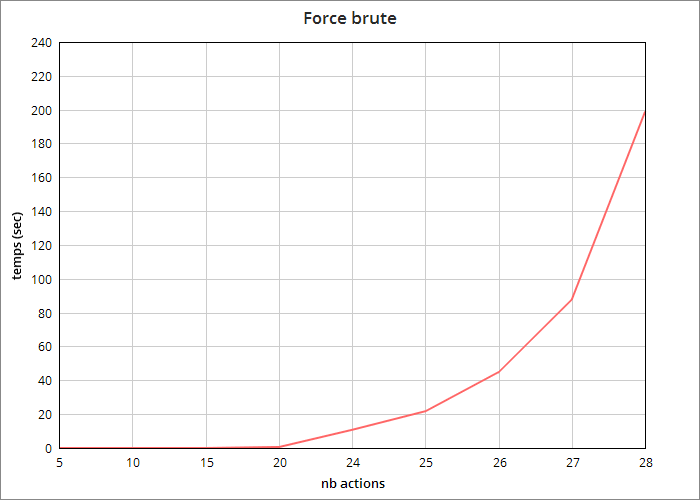
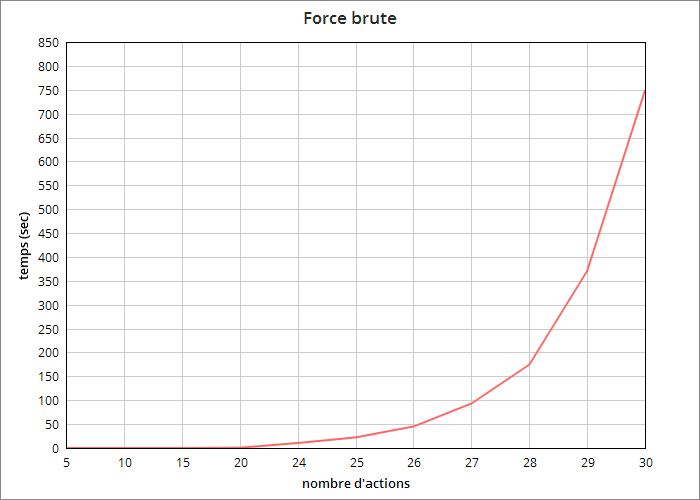
Oral preparation

diff --git a/optimized.py b/optimized.py
@@ -5,51 +5,61 @@ from time import sleep
 from stockmanager import (Stock, StocksCombination)
 from glutton import Glutton
 from views.view import View
+from views.form import (Form, FieldForm)
 from selectfile import SelectionFile
 
 
 MAX_AMOUNT = 500
-# NB_LOOPS = 10000
-NB_THREADS = 8
-TIME_IN_SECONDS = 3
-
-# --−−−−−−−−−−−−−−−−−−−−−−−−−−−−−−−−−−−−−−−−−−−−−−−−−−−−−−−−−−−−−−−−−−−−−−−−−−−−−−−−−−−−−−−−−−−−−−−−−−−−−−−−−−−−−−
-# -- File selection −−−−−−−−−−−−−−−−−−−−−−−−−−−−−−−−−−−−−−−−−−−−−−−−−−−−−−−−−−−−−−−−−−−−−−−−−−−
-select = SelectionFile(sf_header="Optimisation de l'algorithme", sf_bodies=['Selectionnez un fichier'])
-# list_of_actions = select.select_file()
-# list_of_actions = select.select_file('essai.csv')
-# list_of_actions = select.select_file('essai_24_actions.csv')
-# list_of_actions = select.select_file('essai_25_actions.csv')
-# list_of_actions = select.select_file('dataset1_Python+P7.csv')
-list_of_actions = select.select_file('dataset2_Python+P7.csv')
-
-
-# glouton = Glutton(g_max=MAX_AMOUNT, g_list=list_of_actions)
-# best_combination = glouton.random_by_tries(NB_LOOPS)
-
-# print(best_combination)
-
-
-# −−−−−−−−−−−−−−−−−−−--−−−−−−−−−−−−−−−−−−−−−−−−−−−−−−−−−−−−−−−−−−−−−−−−−−−−−−−−−−−−−−−−−−−−−−−−−−−−−−−−−−−−−−−−−−−
-# -- view −−−−−−−−−−−−−−−−−−−−−−−−−−−−−−−−−−−−−−−−−−−−−−−−−−−−−−−−−−−−−−−−−−−−−−−−−−−−−−−−−−−−−−−−−−−−−−−−−−−−−−−−
-bodies = list()
-bodies.append(f'Fichier : {select.sf_current_choice}\n' \
-              f'{len(list_of_actions)} actions\n' \
-              f'{NB_THREADS} threads pendant {TIME_IN_SECONDS} secondes')
-
 
 # --−−−−−−−−−−−−−−−−−−−−−−−−−−−−−−−−−−−−−−−−−−−−−−−−−−−−−−−−−−−−−−−−−−−−−−−−−−−−−−−−−−−−−−−−−−−−−−−−−−−−−−−−−−−−−−
 # -- Glutton random Thread per time −−−−−−−−−−−−−−−−−−−−−−−−−−−−−−−−−−−−−−−−−−−−−−−−−−−−−−−−−−−−−−−−−−−−−−−−−−−−−−
-def glutton_thread_time(list_actions, time_in_seconds, combinations, counters):
+def glutton_thread_time(list_actions: list[Stock], time_in_seconds: int, combinations, counters):
+    """ Glutton algorithm by time for threads. See class Glutton for more details.
+        This function allows to use glutton with threads.
+        Give two manager.list to 'combinations'and 'counters'
+        These lists will be shared and filled by all threads.
+        Once all threads finished, just sort or sum manager.lists """
+
     glutton = Glutton(g_max=MAX_AMOUNT, g_list=list_actions)
     r = glutton.random_by_time(time_in_seconds=time_in_seconds)
 
     combinations.append(r[0])
     counters.append(r[1])
 
-t0 = time()
+
+# --−−−−−−−−−−−−−−−−−−−−−−−−−−−−−−−−−−−−−−−−−−−−−−−−−−−−−−−−−−−−−−−−−−−−−−−−−−−−−−−−−−−−−−−−−−−−−−−−−−−−−−−−−−−−−−
+# -- File selection −−−−−−−−−−−−−−−−−−−−−−−−−−−−−−−−−−−−−−−−−−−−−−−−−−−−−−−−−−−−−−−−−−−−−−−−−−−−−−−−−−−−−−−−−−−−−−
+select = SelectionFile(sf_header="Glutton random", sf_bodies=['Selectionnez un fichier'])
+list_of_actions = select.select_file()
+# list_of_actions = select.select_file('essai.csv')
+# list_of_actions = select.select_file('essai_28_actions.csv')
+# list_of_actions = select.select_file('dataset1_Python+P7.csv')
+# list_of_actions = select.select_file('dataset2_Python+P7.csv')
+
+# --−−−−−−−−−−−−−−−−−−−−−−−−−−−−−−−−−−−−−−−−−−−−−−−−−−−−−−−−−−−−−−−−−−−−−−−−−−−−−−−−−−−−−−−−−−−−−−−−−−−−−−−−−−−−−−
+# -- Form threads and time −−−−−−−−−−−−−−−−−−−−−−−−−−−−−−−−−−−−−−−−−−−−−−−−−−−−−−−−−−−−−−−−−-−−−−−−−−−−−−−−−−−−−−−
+settings=[FieldForm(f_name="Temps de traitement en secondes",     f_type=int),
+          FieldForm(f_name="Nombre de threads",                   f_type=int)]
+
+form_settings = Form(header="Options glouton",
+               fields=settings) 
+
+form_settings.show()
+
+time_in_seconds = settings[0].f_value
+nb_threads = settings[1].f_value
+
+
+# --−−−−−−−−−−−−−−−−−−−−−−−−−−−−−−−−−−−−−−−−−−−−−−−−−−−−−−−−−−−−−−−−−−−−−−−−−−−−−−−−−−−−−−−−−−−−−−−−−−−−−−−−−−−−−−
+# -- View −−−−−−−−−−−−−−−−−−−−−−−−−−−−−−−−−−−−−−−−−−−−−−−−−−−−−−−−−−−−−−−−−−−−−−−−−−−−−−−−−−-−−−−−−−−−−−−−−−−−−−−−
+bodies = list()
+bodies.append(f'Fichier : {select.sf_current_choice}\n' \
+              f'{len(list_of_actions)} actions\n' \
+              f'{nb_threads} threads pendant {time_in_seconds} secondes')
+
 my_view = View(header='Glutton random', bodies=bodies)
-my_view.start_loading(text=f'En cours : {NB_THREADS} threads / {TIME_IN_SECONDS} s')
+my_view.start_loading(text=f'En cours')
+t0 = time()
 
 # --−−−−−−−−−−−−−−−−−−−−−−−−−−−−−−−−−−−−−−−−−−−−−−−−−−−−−−−−−−−−−−−−−−−−−−−−−−−−−−−−−−−−−−−−−−−−−−−−−−−−−−−−−−−−−−
 # -- Lauching threads −−−−−−−−−−−−−−−−−−−−−−−−−−−−−−−−−−−−−−−−−−−−−−−−−−−−−−−−−−−−−−−−−−−−−−-−−−−−−−−−−−−−−−−−−−−−
@@ -58,15 +68,15 @@ combinations = manager.list()
 counters = manager.list()
 threads = []
 
-for i in range(0, NB_THREADS):
-    p = Process(target=glutton_thread_time, args=(list_of_actions, TIME_IN_SECONDS, combinations, counters))
+for i in range(0, nb_threads):
+    p = Process(target=glutton_thread_time, args=(list_of_actions, time_in_seconds, combinations, counters))
     threads.append(p)
     p.start()
 
 # Progression
-while time() - t0 < TIME_IN_SECONDS:
+while time() - t0 < time_in_seconds:
     sleep(0.5)
-    my_view.update_loading(round(100 * (time() - t0) / TIME_IN_SECONDS))
+    my_view.update_loading(round(100 * (time() - t0) / time_in_seconds))
 
 for t in threads:
     t.join()

diff --git a/forcebrute.py b/forcebrute.py
@@ -2,14 +2,13 @@ from itertools import combinations as itertools_combinations
 from multiprocessing import (Process, Manager)
 from math import factorial
 from time import time
-from time import sleep
 
 from stockmanager import (Stock, StocksCombination)
 from views.view import View
 from selectfile import SelectionFile
 
-MAX_AMOUNT = 500.0
 
+MAX_AMOUNT = 500.0
 
 # --−−−−−−−−−−−−−−−−−−−−−−−−−−−−−−−−−−−−−−−−−−−−−−−−−−−−−−−−−−−−−−−−−−−−−−−−−−−−−−−−−−−−−−−−−−−−−−−−−−−−−−−−−−−−−−
 # -- Mix/Max −−−−−−−−−−−−−−−−−−−−−−−−−−−−−−−−−−−−−−−−−−−−−−−−−−−−−−−−−−−−−−−−−−−−−−−−−−−−−−−−−−−−−−−−−−−−−−−−−−−−−
@@ -28,7 +27,12 @@ def search_last_indice_before_maxi(list_of_actions: list[Stock], maxi: float):
 
 # --−−−−−−−−−−−−−−−−−−−−−−−−−−−−−−−−−−−−−−−−−−−−−−−−−−−−−−−−−−−−−−−−−−−−−−−−−−−−−−−−−−−−−−−−−−−−−−−−−−−−−−−−−−−−−−
 # -- Threads −−−−−−−−−−−−−−−−−−−−−−−−−−−−−−−−−−−−−−−−−−−−−−−−−−−−−−−−−−−−−−−−−−−−−−−−−−−−−−−−−−−−−−−−−−−−−−−−−−−−−
-def search_best(list_of_actions, nb_actions_per_combination, combinations, counters):
+def search_best(list_of_actions: list[Stock], nb_actions_per_combination: int, combinations, counters):
+    """ BruteForce algorithm with itertools_combinations. It finds all combinations for n stocks and saved the 
+        best one.
+        Allows to use it with threads. Give two manager.list to 'combinations'and 'counters'
+        These lists will be shared and filled by all threads.
+        Once all threads finished, just sort or sum manager.lists """
 
     best_combination = StocksCombination()
     counter = 0
@@ -45,24 +49,21 @@ def search_best(list_of_actions, nb_actions_per_combination, combinations, count
 # --−−−−−−−−−−−−−−−−−−−−−−−−−−−−−−−−−−−−−−−−−−−−−−−−−−−−−−−−−−−−−−−−−−−−−−−−−−−−−−−−−−−−−−−−−−−−−−−−−−−−−−−−−−−−−−
 # -- File selection −−−−−−−−−−−−−−−−−−−−−−−−−−−−−−−−−−−−−−−−−−−−−−−−−−−−−−−−−−−−−−−−−−−−−−−−−−−−−−−−−−−−−−−−−−−−−−
 select = SelectionFile(sf_header="Force brute", sf_bodies=['Selectionnez un fichier'])
-# list_of_actions = select.select_file()
-list_of_actions = select.select_file('essai.csv')
-# list_of_actions = select.select_file('essai_graph.csv')
-# list_of_actions = select.select_file('essai_24_actions.csv')
-# list_of_actions = select.select_file('essai_25_actions.csv')
-# list_of_actions = select.select_file('essai_27_actions.csv')
+list_of_actions = select.select_file()
+# list_of_actions = select.select_file('essai.csv')
 # list_of_actions = select.select_file('essai_28_actions.csv')
 # list_of_actions = select.select_file('dataset1_Python+P7.csv')
 # list_of_actions = select.select_file('dataset2_Python+P7.csv')
 
-# list_of_actions = list_of_actions[:15]
+t0 = time()
 
 # −−−−−−−−−−−−−−−−−−−--−−−−−−−−−−−−−−−−−−−−−−−−−−−−−−−−−−−−−−−−−−−−−−−−−−−−−−−−−−−−−−−−−−−−−−−−−−−−−−−−−−−−−−−−−−−
 # -- Min / Max to reduce the list_combinations amount −−−−−−−−−−−−−−−−−−−−−−−−−−−−−−−−−−−−−−−−−−−−−−−−−−−−−−−−−−−−
 max = search_last_indice_before_maxi(sorted(list_of_actions, key=lambda k: k.f_price), maxi=MAX_AMOUNT)
 min = search_last_indice_before_maxi(sorted(list_of_actions, key=lambda k: k.f_price, reverse=True), maxi=MAX_AMOUNT)
 
-# combinaisons number ?
+# −−−−−−−−−−−−−−−−−−−--−−−−−−−−−−−−−−−−−−−−−−−−−−−−−−−−−−−−−−−−−−−−−−−−−−−−−−−−−−−−−−−−−−−−−−−−−−−−−−−−−−−−−−−−−−−
+# -- combinaisons number ? −−−−−−−−−−−−−−−−−−−−−−−−−−−−−−−−−−−−−−−−−−−−−−−−−−−−−−−−−−−−−−−−−−−−−−−−−−−−−−−−−−−−−−−
 total_to_do = 0
 for i in range(min, max +1):
     total_to_do += int(factorial(len(list_of_actions)) / (factorial(i) * (factorial(len(list_of_actions) - i))))
@@ -73,10 +74,9 @@ bodies = list()
 bodies.append(f'Fichier : {select.sf_current_choice}\n' \
               f'{len(list_of_actions)} actions\n' \
               f'Nombre de combinaisons à tester : {total_to_do}')
+
 my_view = View(header='Force brute', bodies=bodies)
 my_view.start_loading(text='Étude en cours ')
-t0 = time()
-
 
 # −−−−−−−−−−−−−−−−−−−--−−−−−−−−−−−−−−−−−−−−−−−−−−−−−−−−−−−−−−−−−−−−−−−−−−−−−−−−−−−−−−−−−−−−−−−−−−−−−−−−−−−−−−−−−−−
 # -- Lauching threads −−−−−−−−−−−−−−−−−−−−−−−−−−−−−−−−−−−−−−−−−−−−−−−−−−−−−−−−−−−−−−−−−−−−−−-−−−−−−−−−−−−−−−−−−−−−
@@ -91,12 +91,12 @@ for i in range(min, max + 1):
     p.start()
 
 for t in threads:
-    my_view.update_loading(sum(counters) / total_to_do * 100)
+    my_view.update_loading(int(StocksCombination.sum(counters) / total_to_do * 100))
     t.join()
 
 my_view.update_loading(100)
 best_combination = StocksCombination.best_stock_in_list(combinations)
-counter = sum(counters)
+counter = StocksCombination.sum(counters)
 
 # −−−−−−−−−−−−−−−−−−−--−−−−−−−−−−−−−−−−−−−−−−−−−−−−−−−−−−−−−−−−−−−−−−−−−−−−−−−−−−−−−−−−−−−−−−−−−−−−−−−−−−−−−−−−−−−
 # -- Displays results −−−−−−−−−−−−−−−−−−−−−−−−−−−−−−−−−−−−−−−−−−−−−−−−−−−−−−−−−−−−−−−−−−−−−−−−−−−−−−−−−−−−−−−−−−−−

diff --git a/stockmanager.py b/stockmanager.py
@@ -1,9 +1,11 @@
 from dataclasses import dataclass
 from typing import(Any)
 
+
 @dataclass
 class Stock:
-    """ Container for one ation """
+    """ Container for one ation.
+        Allows to compare two stocks directly by their price """
 
     f_name: str
     f_price: float
@@ -17,7 +19,9 @@ class Stock:
 
 class StocksCombination:
     """ Container for a combination of several stocks
-        Performs calculations, checks and allows to compare with other combinations """
+        Performs calculations, checks and allows to compare with other combinations.
+        A combination can be create in constructor with a stock's Container
+        or stock by stock with the 'add' method. """
 
     def __init__(self, stocks: Any=None, max_amount: float=500.0):
         self.max_amount =  max_amount
@@ -84,6 +88,8 @@ class StocksCombination:
     def sorted_stocks(self):
         return "\n".join( str(i) for i in sorted(self.stocks))
 
+    # −−−−−−−−−−−−−−−−−−−−−−−−−−−−−−−−−−−−−−−−−−−−−−−−−−−−−−−−−−−−−−−−−−−−−−−−−−−−−−−−−−−−−−−−−−−−−−−−−−−−−−−−−−−−
+    # Static methods to avoid warning due to thread Manager
     @staticmethod
     def best_stock(a, b):
         """ Returns the best stock """
@@ -101,3 +107,13 @@ class StocksCombination:
             best_stock = StocksCombination.best_stock(best_stock, stock)
 
         return best_stock
+
+    @staticmethod
+    def sum(number_list):
+        """ Simple addition, to avoid warning with sum() and threads proxies """
+        total = 0
+        for value in number_list:
+            total += value
+
+        return total
+

diff --git a/glutton.py b/glutton.py
@@ -4,12 +4,20 @@ from time import time
 
 from stockmanager import (Stock, StocksCombination)
 
+
 @dataclass
 class Glutton:
+    """ Glutton algorithm, give the maximum price and the list of stocks.
+        Then, use random by number of tries or by time.
+        Simple but fast, it compares a lot of combinations and keeps the best one O(n) """
+
     g_max: int
     g_list: list[Stock]
 
     def _random(self):
+        """ Algorithm, takes random index in stocks list to create and return a new combination.
+            Prevents duplications.
+            When price is close to maximum, it tries 5 more stocks to avoid a complete loop in stocks list """
 
         currentCombination = StocksCombination(stocks=[], max_amount=self.g_max)
         current_indexes = []
@@ -33,8 +41,8 @@ class Glutton:
 
         return currentCombination
 
-
     def random_by_tries(self, nb_tries):
+        """ Calls _random nb times and keeps the best combination """
 
         best_combination = StocksCombination()
         counter = 0
@@ -47,6 +55,8 @@ class Glutton:
         return best_combination
 
     def random_by_time(self, time_in_seconds):
+        """ Calls _random nb during 'time' and keeps the best combination.
+            Returns the best and a counter """
 
         best_combination = StocksCombination()
         counter = 0

diff --git a/selectfile.py b/selectfile.py
@@ -10,6 +10,11 @@ from stockmanager import (Stock)
 
 @dataclass
 class SelectionFile:
+    """ Displays a form to select a csv file in ./fichiers/
+        Once selected, loops in the file to create Stock objects and fills a list.
+        csv file has to have three columns : name, price, profit
+        prices and profits are convert in float. Invalidated values are ignored.
+        """
 
     sf_header: str
     sf_bodies: Optional[list[str]]
@@ -17,6 +22,8 @@ class SelectionFile:
     sf_current_choice: Any=""
 
     def select_file(self, force_to_test: str=''):
+        """ Creates displays the form, then fills and returns the list of actions
+            You can skip the form by forcing, just fills in the csv file's name """
 
         if not force_to_test:
             fields = []
@@ -37,9 +44,6 @@ class SelectionFile:
 
                 price = float(r['price'])
                 profit = float(r['profit'])
-
-                # price = abs(float(r['price'])
-                # profit = abs(float(r['profit'])
 
                 if price > 0 and profit > 0:
                     list_of_actions.append(Stock(f_name=r['name'],

diff --git a/views/form.py b/views/form.py
@@ -51,9 +51,7 @@ class Form(View):
     """ Based on View, allows to display bodies and all fields.
         Ask user to fill each field and ask a confirmation """
 
-    def __init__(self, header: str, fields: List[FieldForm], bodies: List[str]=[],
-                # test: str
-            ):
+    def __init__(self, header: str, fields: List[FieldForm], bodies: List[str]=[]):
         self.fields = fields
         self.bodies_base = bodies
 

diff --git a/README.md b/README.md
@@ -1,2 +1,58 @@
 # ocrp7
-Résolvez des problèmes en utilisant des algorithmes en Python
+OpenClassRooms Projet 7  
+Résolvez des problèmes en utilisant des algorithmes en Python  
+
+![Logo AlgoInvestAndTrade](https://raw.githubusercontent.com/FLinguenheld/ocrp7/main/AlgoInvestAndTrade.png "Logo")
+![Logo FLinguenheld](https://raw.githubusercontent.com/FLinguenheld/ocrp7/main/forelif.png "Pouet")
+
+
+****
+### Description
+L'objectif de ce projet est d'aborder l'algorithmie en développant des solutions permettant à une société 
+de maximiser ses investissements.  
+Une première liste de 20 actions est traitée avec un algorithme *bruteforce* puis deux autres plus importantes avec 
+un algorithme *glutton*.
+
+
+****
+### Installation
+
+Rendez-vous dans le dossier de votre choix puis lancez un terminal.  
+Clônez le dossier depuis GitHub avec la commande :
+
+    git clone https://github.com/FLinguenheld/ocrp7
+
+Les fichiers d'actions à analyser doivent être des .csv et rangés dans le dossier 'fichiers'.  
+Ils doivent contenir trois colonnes : name, price, profit.  
+Les nombres sont convertis en float, les valeurs nulles ou négatives sont ignorées.
+
+
+****
+### Déroulement
+##### 1.Forcebrute
+
+Entrez la commande :
+
+    python forcebrute.py
+
+Sélectionnez le fichier à analyser et validez.  
+Le programme affichera le nombre de combinaisons à réaliser ainsi qu'une barre de progression.  
+Attention: au delà de 30 actions le temps d'exécution devient très important.
+
+Cet algorithme teste toutes les combinaisons possibles et trouve la meilleure solution.
+
+##### 2.Optimized
+
+Entrez la commande :
+
+    python optimized.py
+
+- Sélectionnez le fichier à analyser
+- Entrez le temps d'analyse
+- Entrez le nombre de threads
+
+Basée sur un algorithme *glutton*, cette commande génère aléatoirement un maximum de combinaisons pendant le
+temps renseigné afin de conserver la plus rentable.  
+
+Un algorithme est lancé par thread pour multiplier le nombre d'essais.  
+Il trouve donc une solution optimisée permettant de traiter une liste avec un nombre important d'actions.
